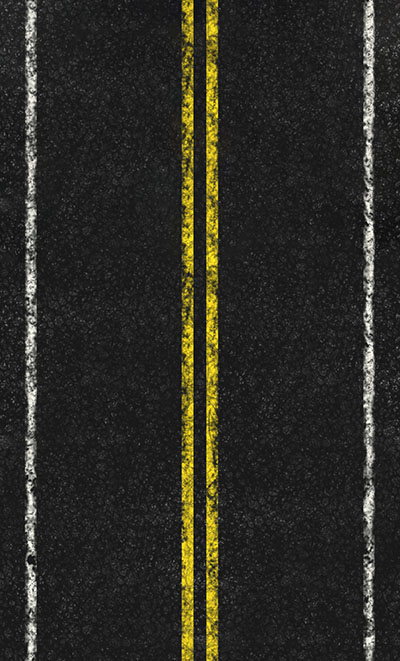
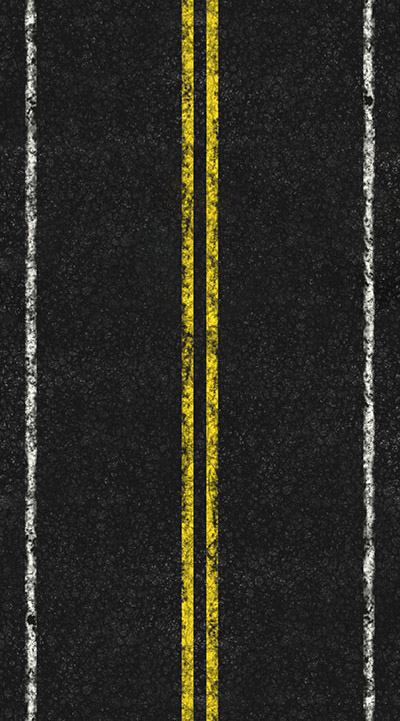
moving background

diff --git a/Assignment13/Crazy-Taxi/main.py b/Assignment13/Crazy-Taxi/main.py
@@ -44,8 +44,8 @@ class Car:
     def show(self):
         self.area = Game.dsply.blit(self.image, (self.x, self.y))
         self.y += Car.speed
-            
 
+        
 class Game:
     width = 400
     height = 661
@@ -54,9 +54,24 @@ class Game:
     dsply = pygame.display.set_mode((width, height))
     pygame.display.set_caption('Crazy Taxi')
     bg = pygame.image.load("Assignment13/Crazy-Taxi/assets/img/asphalt-road.jpg")
+    bgY1 = 0
+    bgY2 = width
+    movingUpSpeed = 10
     font_go = pygame.font.Font('Assignment13/Crazy-Taxi/assets/font/atari_full.ttf', 32)
     font_pak = pygame.font.Font('Assignment13/Crazy-Taxi/assets/font/atari_full.ttf', 12)
 
+    def update(self):
+        Game.bgY1 -= Game.movingUpSpeed
+        Game.bgY2 -= Game.movingUpSpeed
+        if Game.bgY1 <= -Game.width:
+            Game.bgY1 = Game.width
+        if Game.bgY2 <= -Game.width:
+            Game.bgY2 = Game.width
+            
+    def render(self):
+        Game.dsply.blit(Game.bg, (0, Game.bgY1))
+        Game.dsply.blit(Game.bg, (0, Game.bgY2))
+        
     @staticmethod
     def play():
         cars = []
@@ -77,6 +92,8 @@ class Game:
                         taxi.dir = 't'
 
             Game.dsply.blit(Game.bg, (0, 0))
+            Game.update(Game)
+            Game.render(Game)
 
             if random.random() < 0.01:
                 cars.append(Car())
@@ -106,7 +123,6 @@ class Game:
             Car.speed += 0.005   
             taxi.show()
             taxi.move()
-                
             pygame.display.update()
             Game.clock.tick(Game.fps)
 
